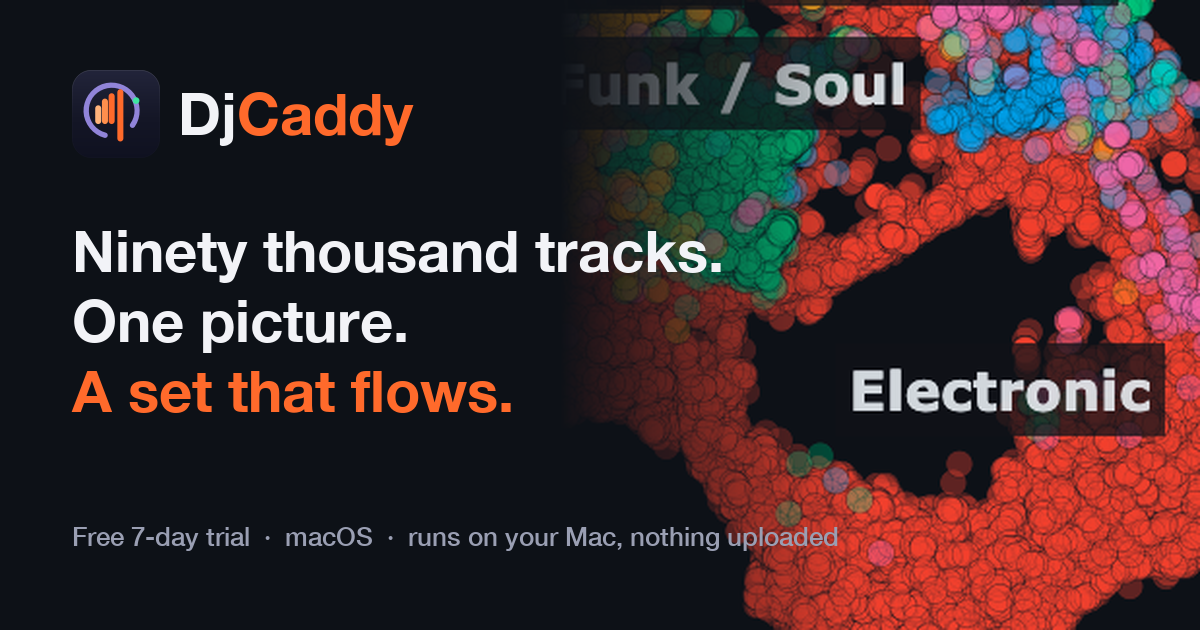
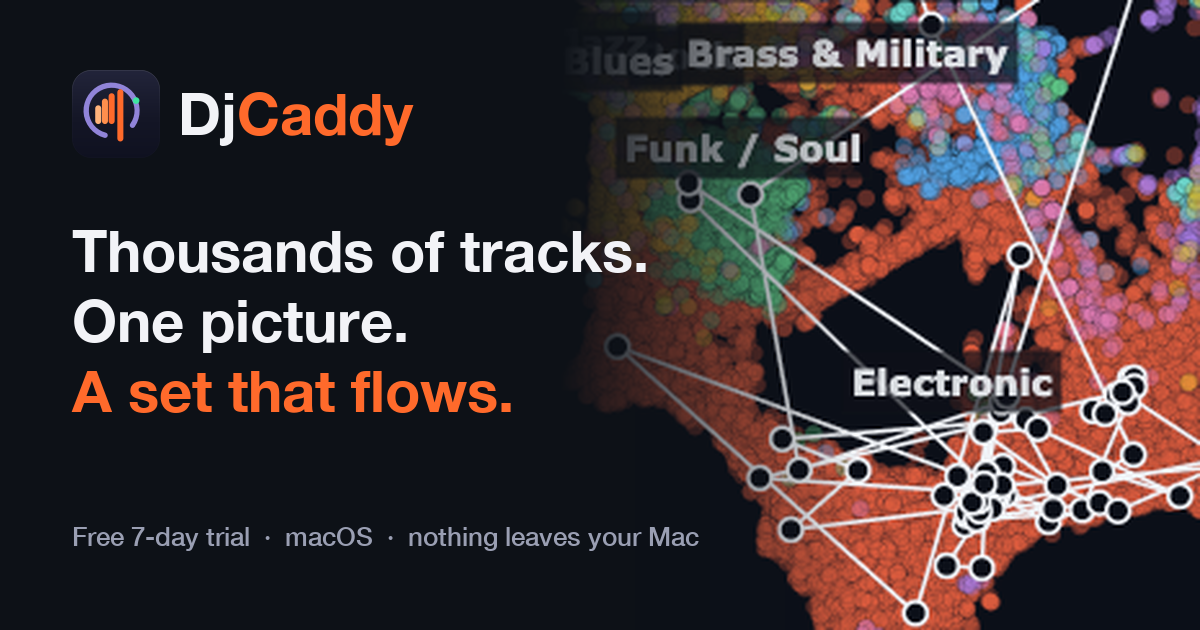
«Thousands of tracks» al posto di novantamila, anche nella og; via la promessa degli aggiornamenti 1.x

diff --git a/index.html b/index.html
@@ -6,7 +6,7 @@
 <title>DjCaddy — see your whole music library, build sets that flow</title>
 <meta name="description" content="DjCaddy maps your entire DJ library by how the tracks sound, plans the arc of a set, and writes hot cues straight into rekordbox. Runs on your Mac. 7-day free trial.">
 <meta property="og:title" content="DjCaddy — see your whole library, build sets that flow">
-<meta property="og:description" content="From ninety thousand files to a set that flows, without scrolling. 7-day free trial, no account.">
+<meta property="og:description" content="From thousands of files to a set that flows, without scrolling. 7-day free trial, no account.">
 <meta property="og:image" content="img/og.png">
 <style>
   :root {
@@ -98,7 +98,7 @@
   <!-- HERO -->
   <div class="hero">
     <div>
-      <h1>Ninety thousand tracks.<br>One picture. <span>A set that flows.</span></h1>
+      <h1>Thousands of tracks.<br>One picture. <span>A set that flows.</span></h1>
       <p class="lede">DjCaddy listens to every track in your library and draws it as a map where
         things that sound alike sit together. Click a track, see what mixes out of it, draw the arc
         of your set — then write the cues straight into rekordbox.</p>
@@ -198,7 +198,7 @@
         <a class="btn ghost" href="https://github.com/mspadaccino/djcaddy-site/releases/latest/download/DjCaddy.dmg">Download for macOS</a></div>
       <div class="card"><h3>Licence · launch price</h3>
         <div class="amount">€49 <s>€69</s></div>
-        <ul><li>One-time payment, no subscription</li><li>All 1.x updates included</li><li>Valid on one computer — a new Mac gets a new key, free</li><li>Pay with PayPal or a card, through PayPal</li></ul>
+        <ul><li>One-time payment, no subscription</li><li>Valid on one computer — a new Mac gets a new key, free</li><li>Pay with PayPal or a card, through PayPal</li></ul>
         <form id="order" action="https://www.paypal.com/cgi-bin/webscr" method="post" target="_top">
           <input type="hidden" name="cmd" value="_xclick">
           <input type="hidden" name="business" value="mspadaccino@gmail.com">
@@ -237,7 +237,7 @@
       tracks and builds the map has no Windows release, so a Windows DjCaddy could only open a map made on a Mac.
       That is not a product worth selling yet. If Windows is what you play on, leave your email and you will
       hear when that changes.</p></details>
-    <details><summary>What does the licence cover?</summary><p>One computer, for good, with every 1.x update.
+    <details><summary>What does the licence cover?</summary><p>One computer, for good.
       Moving to a new Mac? Write in with your order number and the new machine code, and a new key comes back
       at no charge.</p></details>
     <details><summary>Does it send anything home?</summary><p>No. No account, no telemetry, no upload. The licence
